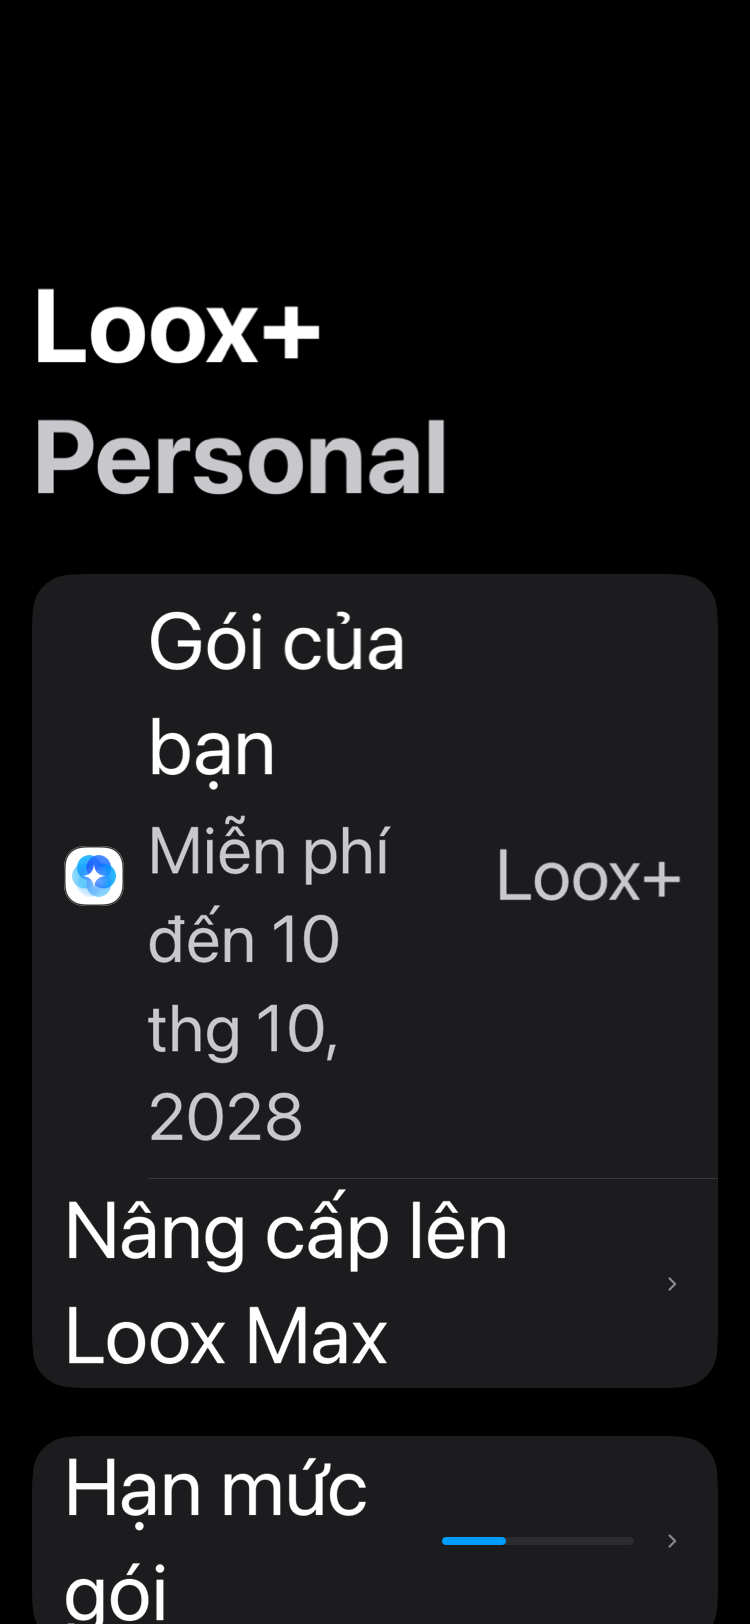
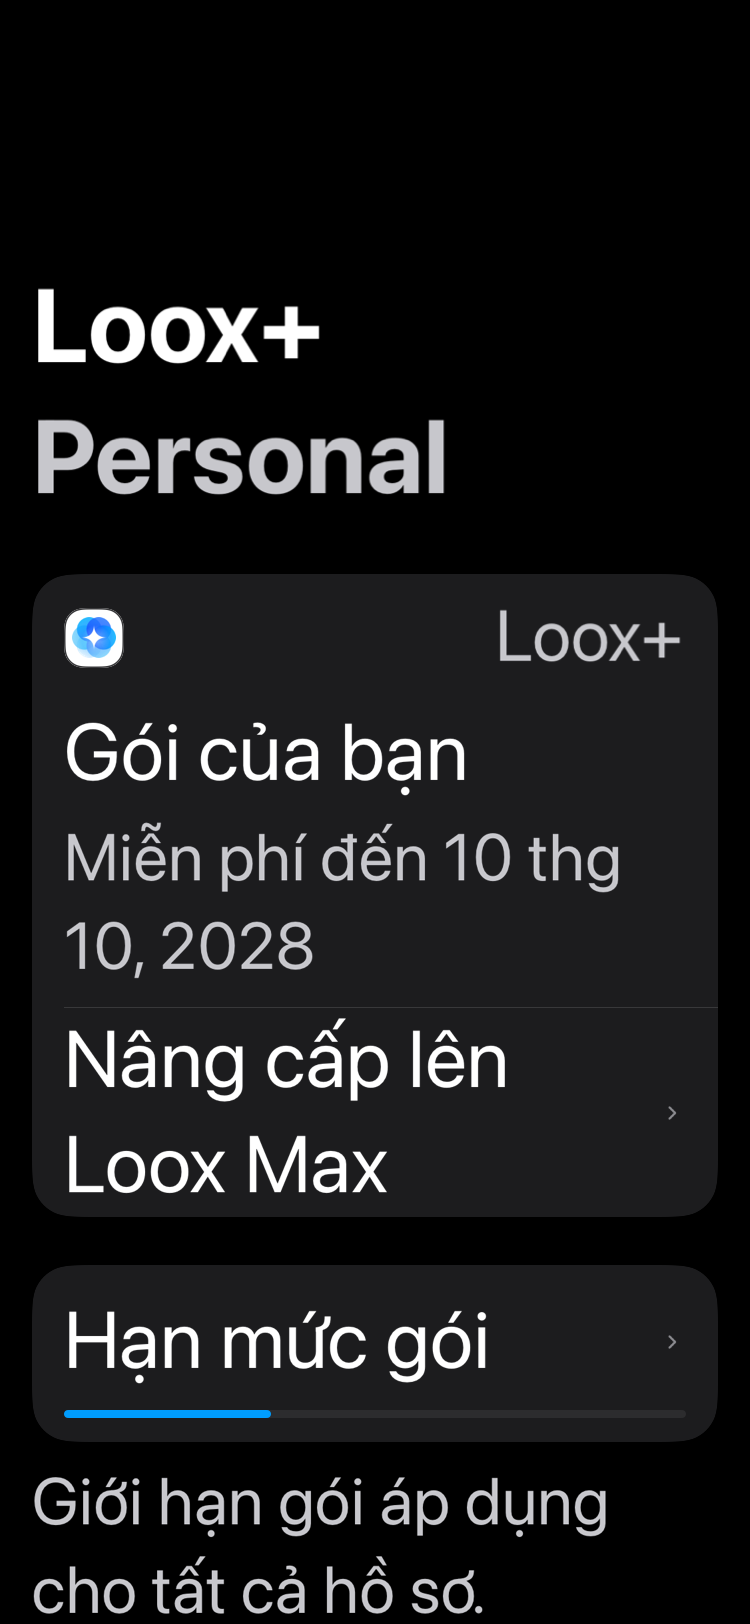
fix(hub): stack the plan and plan-limits rows at accessibility text sizes
At accessibility sizes the plan row squeezed "Your plan" and the
"Free until" date into a few-words-wide middle column between the tile and
the tier name, and the fixed 96pt quota bar did the same to "Plan limits".

- Plan row: tile and tier share the top line; the labels take the full card
  width below. The divider under it follows the labels to the card edge
  (ProfileRowDivider gains an optional leadingInset).
- Plan limits row: label and chevron on top, the quota bar full width below.
- Regular text sizes keep the existing single-line layout.

diff --git a/Vaultify/Features/Profile/LooxHubPlanSection.swift b/Vaultify/Features/Profile/LooxHubPlanSection.swift
@@ -10,19 +10,26 @@ import SwiftUI
 /// Every row opens `LooxPaywallScreen`, which itself branches on entitlement.
 struct LooxHubPlanSection: View {
     @Environment(AppEnvironment.self) private var env
+    @Environment(\.dynamicTypeSize) private var dynamicTypeSize
     @State private var showPaywall = false
 
     private var entitlements: LooxEntitlementStore { env.entitlements }
+
+    /// Accessibility text sizes stack the plan row, so its labels start at the
+    /// card edge like the action row below; the divider follows them there.
+    private var divider: some View {
+        ProfileRowDivider(leadingInset: dynamicTypeSize.isAccessibilitySize ? Space.s4 : nil)
+    }
 
     var body: some View {
         ProfileGroupCard {
             if entitlements.isSubscriber {
                 planRow(tier: entitlements.paidTier, freeUntil: nil)
-                ProfileRowDivider()
+                divider
                 actionRow("Manage plan", showsTile: false)
             } else if let endsAt = entitlements.complimentaryEndsAt {
                 planRow(tier: LooxComplimentaryGrant.tier, freeUntil: endsAt)
-                ProfileRowDivider()
+                divider
                 actionRow("Upgrade to Loox Max", showsTile: false)
             } else {
                 actionRow("Upgrade to Loox Max", showsTile: true)
@@ -35,26 +42,50 @@ struct LooxHubPlanSection: View {
 
     /// "Your plan" + tier name. The complimentary end date sits UNDER the
     /// label, not beside the tier, so the longest localized date (VI) wraps in
-    /// its own column instead of squeezing the tier name.
+    /// its own column instead of squeezing the tier name. At accessibility
+    /// sizes the middle column would be a few words wide, so the tile and tier
+    /// share the top line and the labels take the full card width below
+    /// (owner 261021).
     private func planRow(tier: LooxTier, freeUntil: Date?) -> some View {
-        HStack(spacing: Space.s3) {
-            ProfileRowTile(style: .brandMark)
-            VStack(alignment: .leading, spacing: Space.s1) {
-                Text("Your plan").vaultType(.body).themedForeground()
-                if let freeUntil {
-                    Text("Free until \(LooxTrialCopy.endDate(freeUntil))")
-                        .vaultType(.footnote)
-                        .themedForeground(.secondaryBody)
-                        .fixedSize(horizontal: false, vertical: true)
+        Group {
+            if dynamicTypeSize.isAccessibilitySize {
+                VStack(alignment: .leading, spacing: Space.s2) {
+                    HStack(spacing: Space.s3) {
+                        ProfileRowTile(style: .brandMark)
+                        Spacer(minLength: Space.s2)
+                        tierName(tier)
+                    }
+                    planLabels(freeUntil: freeUntil)
+                }
+            } else {
+                HStack(spacing: Space.s3) {
+                    ProfileRowTile(style: .brandMark)
+                    planLabels(freeUntil: freeUntil)
+                    Spacer(minLength: Space.s2)
+                    tierName(tier)
                 }
             }
-            Spacer(minLength: Space.s2)
-            Text(verbatim: tier.displayName).vaultType(.subhead).themedForeground(.secondaryBody)
         }
         .padding(.horizontal, Space.s4)
         .padding(.vertical, Space.s2)
         .frame(minHeight: Metric.rowHeight)
         .accessibilityElement(children: .combine)
+    }
+
+    private func planLabels(freeUntil: Date?) -> some View {
+        VStack(alignment: .leading, spacing: Space.s1) {
+            Text("Your plan").vaultType(.body).themedForeground()
+            if let freeUntil {
+                Text("Free until \(LooxTrialCopy.endDate(freeUntil))")
+                    .vaultType(.footnote)
+                    .themedForeground(.secondaryBody)
+                    .fixedSize(horizontal: false, vertical: true)
+            }
+        }
+    }
+
+    private func tierName(_ tier: LooxTier) -> some View {
+        Text(verbatim: tier.displayName).vaultType(.subhead).themedForeground(.secondaryBody)
     }
 
     /// One tappable row into the paywall. The brand tile leads the card only

diff --git a/Vaultify/Features/Profile/LooxHubScreen.swift b/Vaultify/Features/Profile/LooxHubScreen.swift
@@ -17,6 +17,7 @@ struct LooxHubScreen: View {
     /// tab-switching actions must pop back to root first or the switch happens
     /// invisibly underneath (see `AppNavigator.push`).
     @Environment(AppNavigator.self) private var navigator: AppNavigator?
+    @Environment(\.dynamicTypeSize) private var dynamicTypeSize
     @State private var confirmApprovalOff = false
 
     private var tier: LooxTier { env.entitlements.tier }
@@ -105,15 +106,31 @@ struct LooxHubScreen: View {
 
     /// White card row summarizing every quota: a thin bar at the HIGHEST
     /// utilization across the countable quotas, pushing the per-quota detail.
+    /// At accessibility sizes the fixed-width bar would squeeze the label into
+    /// one word per line, so the bar moves under it at full width.
     private var quotaCard: some View {
         ProfileGroupCard {
             NavigationLink { LooxQuotaScreen() } label: {
-                HStack(spacing: Space.s3) {
-                    Text("Plan limits").vaultType(.body).themedForeground()
-                    Spacer(minLength: Space.s3)
-                    LooxQuotaBar(fraction: maxQuotaFraction)
-                        .frame(width: 96)
-                    VaultIcon(Icons.chevronRight, size: 14).themedForeground(.tertiary)
+                Group {
+                    if dynamicTypeSize.isAccessibilitySize {
+                        VStack(alignment: .leading, spacing: Space.s2) {
+                            HStack(spacing: Space.s3) {
+                                quotaLabel
+                                Spacer(minLength: Space.s3)
+                                quotaChevron
+                            }
+                            LooxQuotaBar(fraction: maxQuotaFraction)
+                        }
+                        .padding(.vertical, Space.s3)
+                    } else {
+                        HStack(spacing: Space.s3) {
+                            quotaLabel
+                            Spacer(minLength: Space.s3)
+                            LooxQuotaBar(fraction: maxQuotaFraction)
+                                .frame(width: 96)
+                            quotaChevron
+                        }
+                    }
                 }
                 .padding(.horizontal, Space.s4)
                 .frame(minHeight: Metric.rowHeight)
@@ -121,6 +138,14 @@ struct LooxHubScreen: View {
             }
             .buttonStyle(.plain)
         }
+    }
+
+    private var quotaLabel: some View {
+        Text("Plan limits").vaultType(.body).themedForeground()
+    }
+
+    private var quotaChevron: some View {
+        VaultIcon(Icons.chevronRight, size: 14).themedForeground(.tertiary)
     }
 
     /// The most-consumed quota drives the summary bar — "how close am I to

diff --git a/Vaultify/Features/Profile/ProfileComponents.swift b/Vaultify/Features/Profile/ProfileComponents.swift
@@ -246,12 +246,14 @@ struct ProfileNavRow<Destination: View>: View {
 /// Leading-inset hairline between two Profile rows (aligns under the title, past the tile).
 struct ProfileRowDivider: View {
     @Environment(AppEnvironment.self) private var env
+    /// nil = the default inset, aligned with the text after a row tile.
+    var leadingInset: CGFloat? = nil
 
     var body: some View {
         Rectangle()
             .fill(Color(rgb: env.theme.active.separator))
             .frame(height: 0.5)
-            .padding(.leading, Space.s4 + Metric.badgeTile + Space.s3)
+            .padding(.leading, leadingInset ?? Space.s4 + Metric.badgeTile + Space.s3)
     }
 }
 
